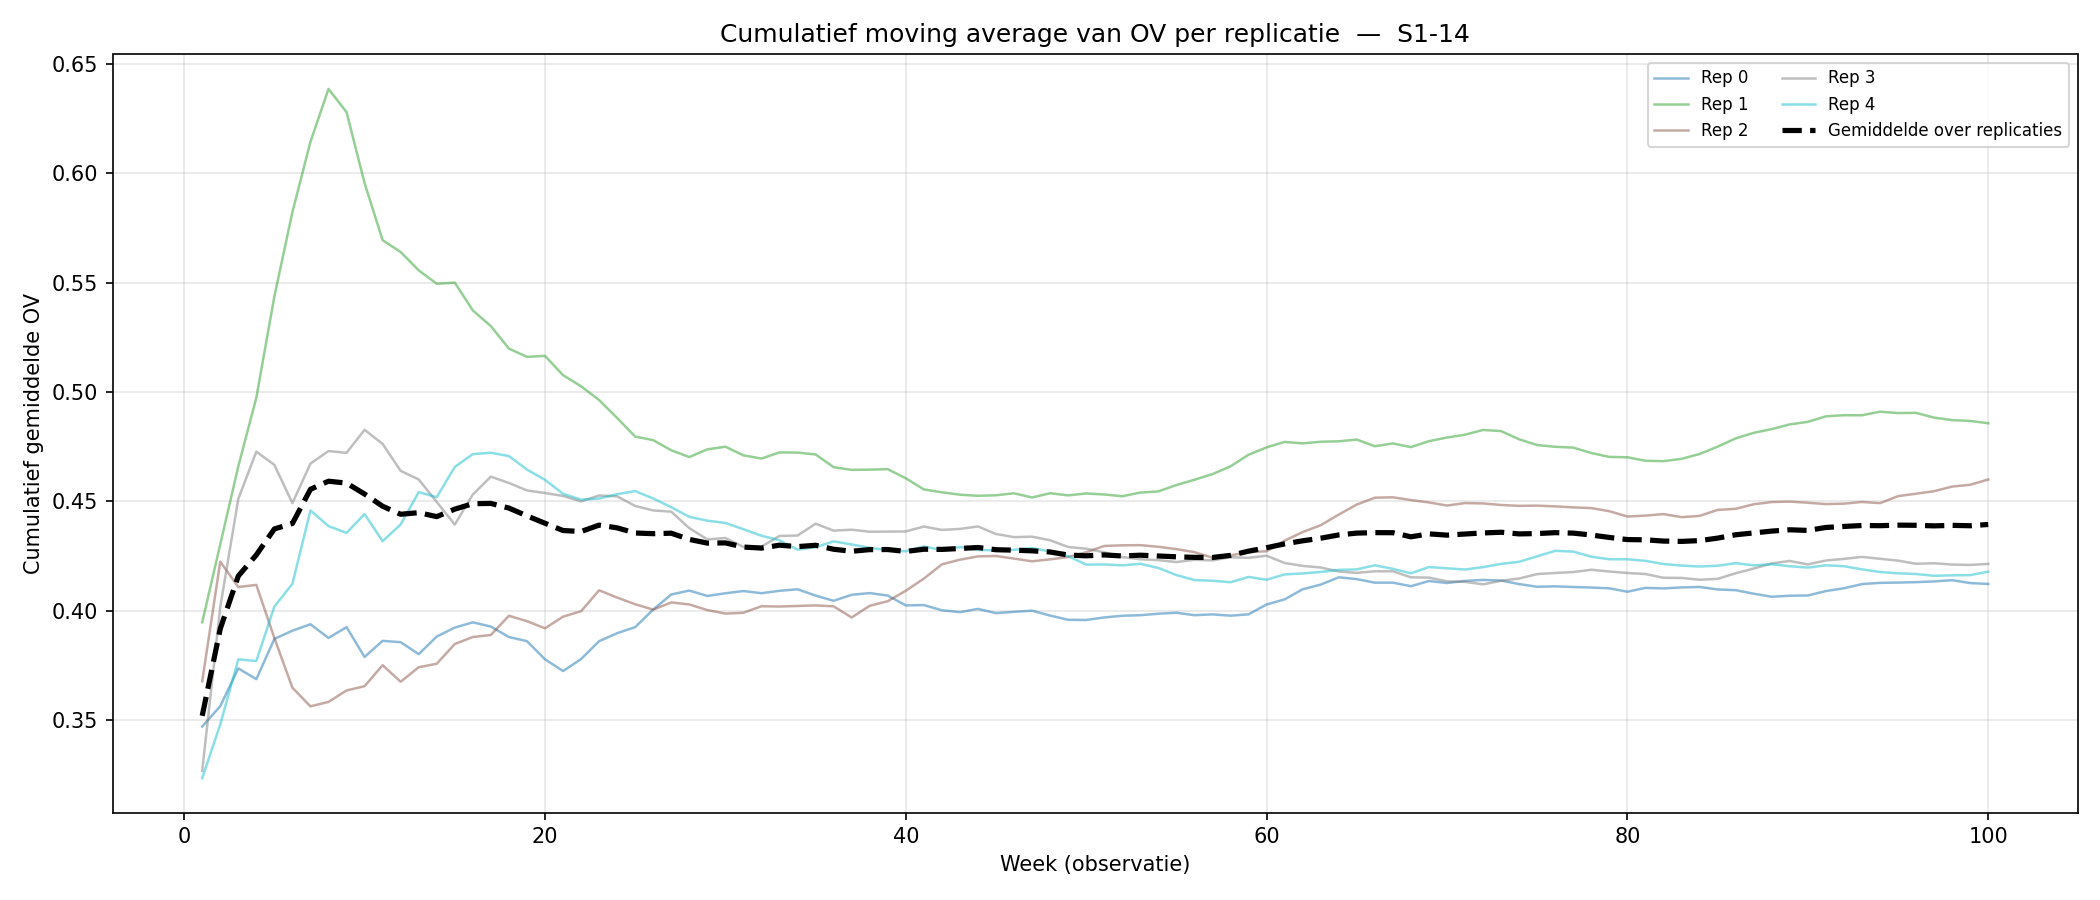
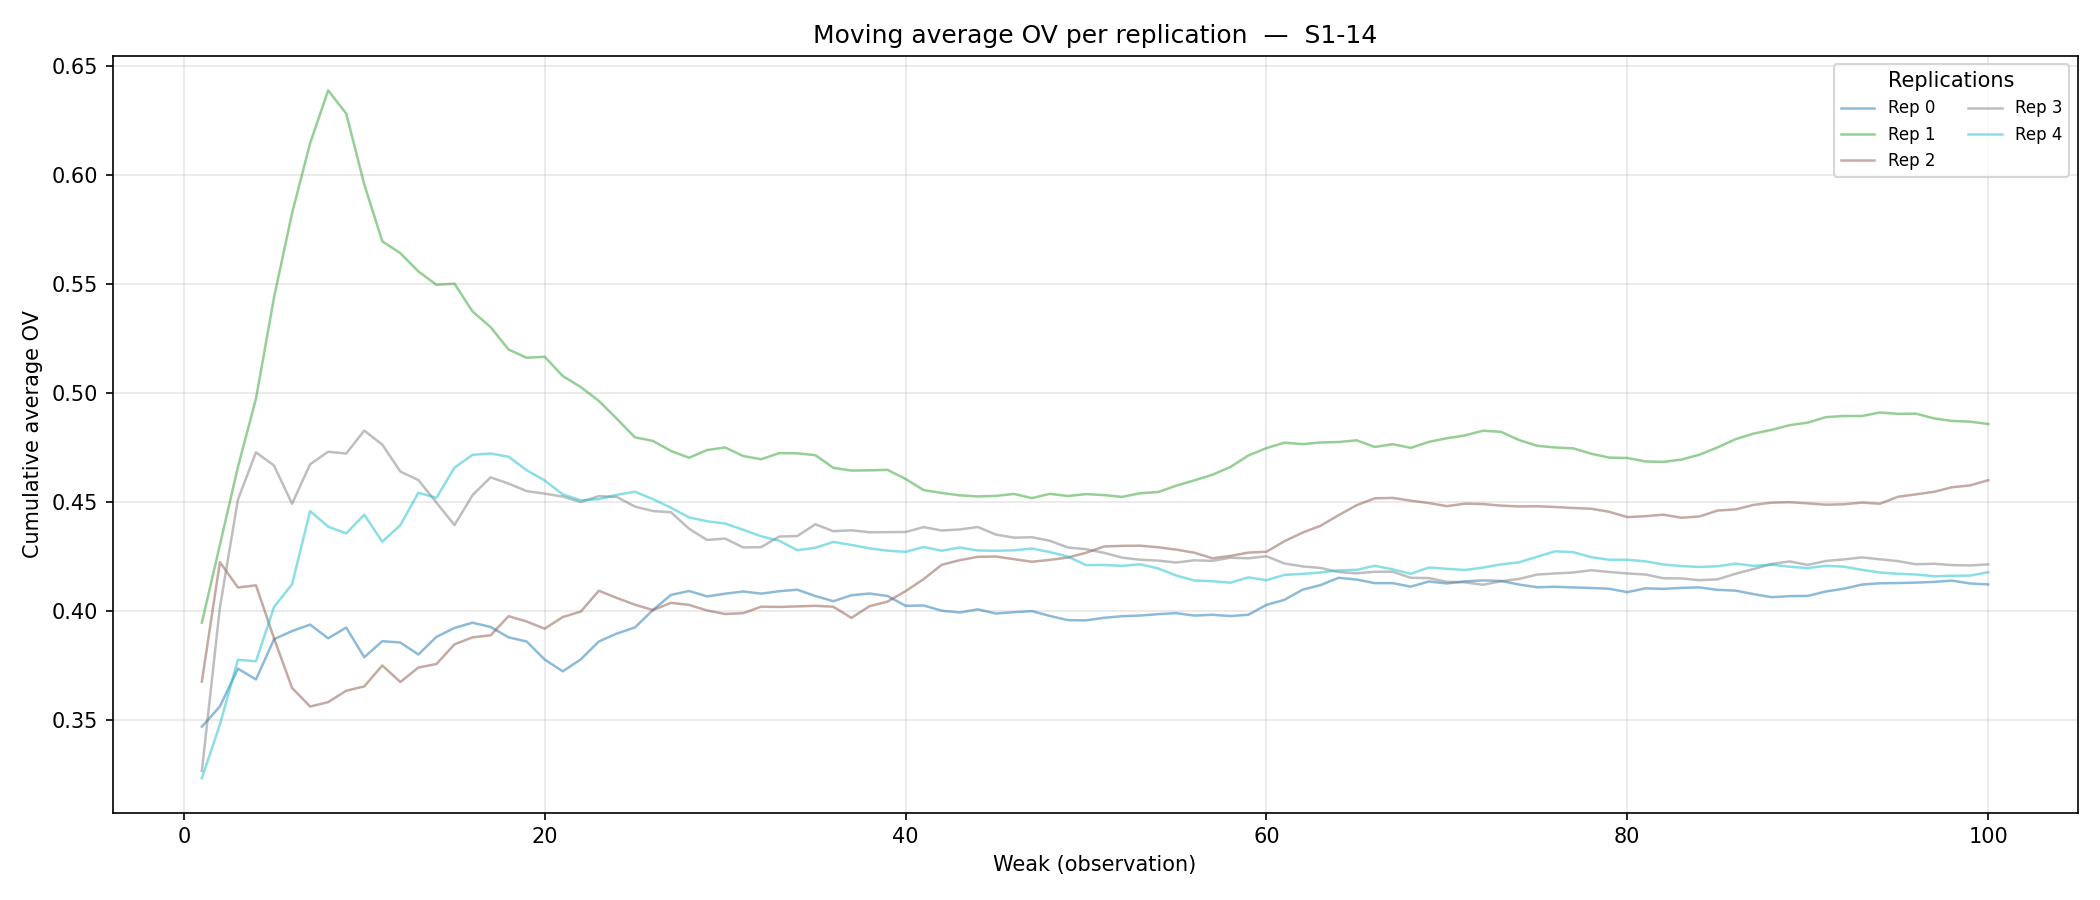
Graph in engels

diff --git a/Big Assignment/screening_design.py b/Big Assignment/screening_design.py
@@ -1,4 +1,5 @@
 import matplotlib.pyplot as plt
+plt.switch_backend("Agg")
 import numpy as np
 import random
 from simulation import Simulation
@@ -75,7 +76,6 @@ weeks = np.arange(1, sim.W + 1)
 
 # Cumulatief moving average per replicatie: MA[w] = mean(OV[0..w])
 cumavg = np.cumsum(trajectories, axis=1) / weeks  # shape: (R, W)
-mean_cumavg = cumavg.mean(axis=0)
 
 fig, ax = plt.subplots(figsize=(14, 6))
 
@@ -84,20 +84,13 @@ for r in range(sim.R):
     ax.plot(weeks, cumavg[r], alpha=0.5, linewidth=1.2,
             color=colors[r], label=f"Rep {r}")
 
-ax.plot(weeks, mean_cumavg, color="black", linewidth=2.5,
-        linestyle="--", label="Gemiddelde over replicaties")
-
-ax.set_title("Cumulatief moving average van OV per replicatie  —  S1-14")
-ax.set_xlabel("Week (observatie)")
-ax.set_ylabel("Cumulatief gemiddelde OV")
-ax.legend(fontsize=8, ncol=2)
+ax.set_title("Moving average OV per replication  —  S1-14")
+ax.set_xlabel("Weak (observation)")
+ax.set_ylabel("Cumulative average OV")
+ax.legend(fontsize=8, ncol=2, title="Replications")
 ax.grid(True, alpha=0.3)
 
 plt.tight_layout()
 plt.savefig("ov_cumavg_S1-14.png", dpi=150)
 plt.show()
-
-plt.tight_layout()
-plt.savefig("ov_trajectories_S1-14.png", dpi=150)
-plt.show()
-print("Plot opgeslagen als ov_trajectories_S1-14.png")
+print("Plot opgeslagen als ov_cumavg_S1-14.png")
